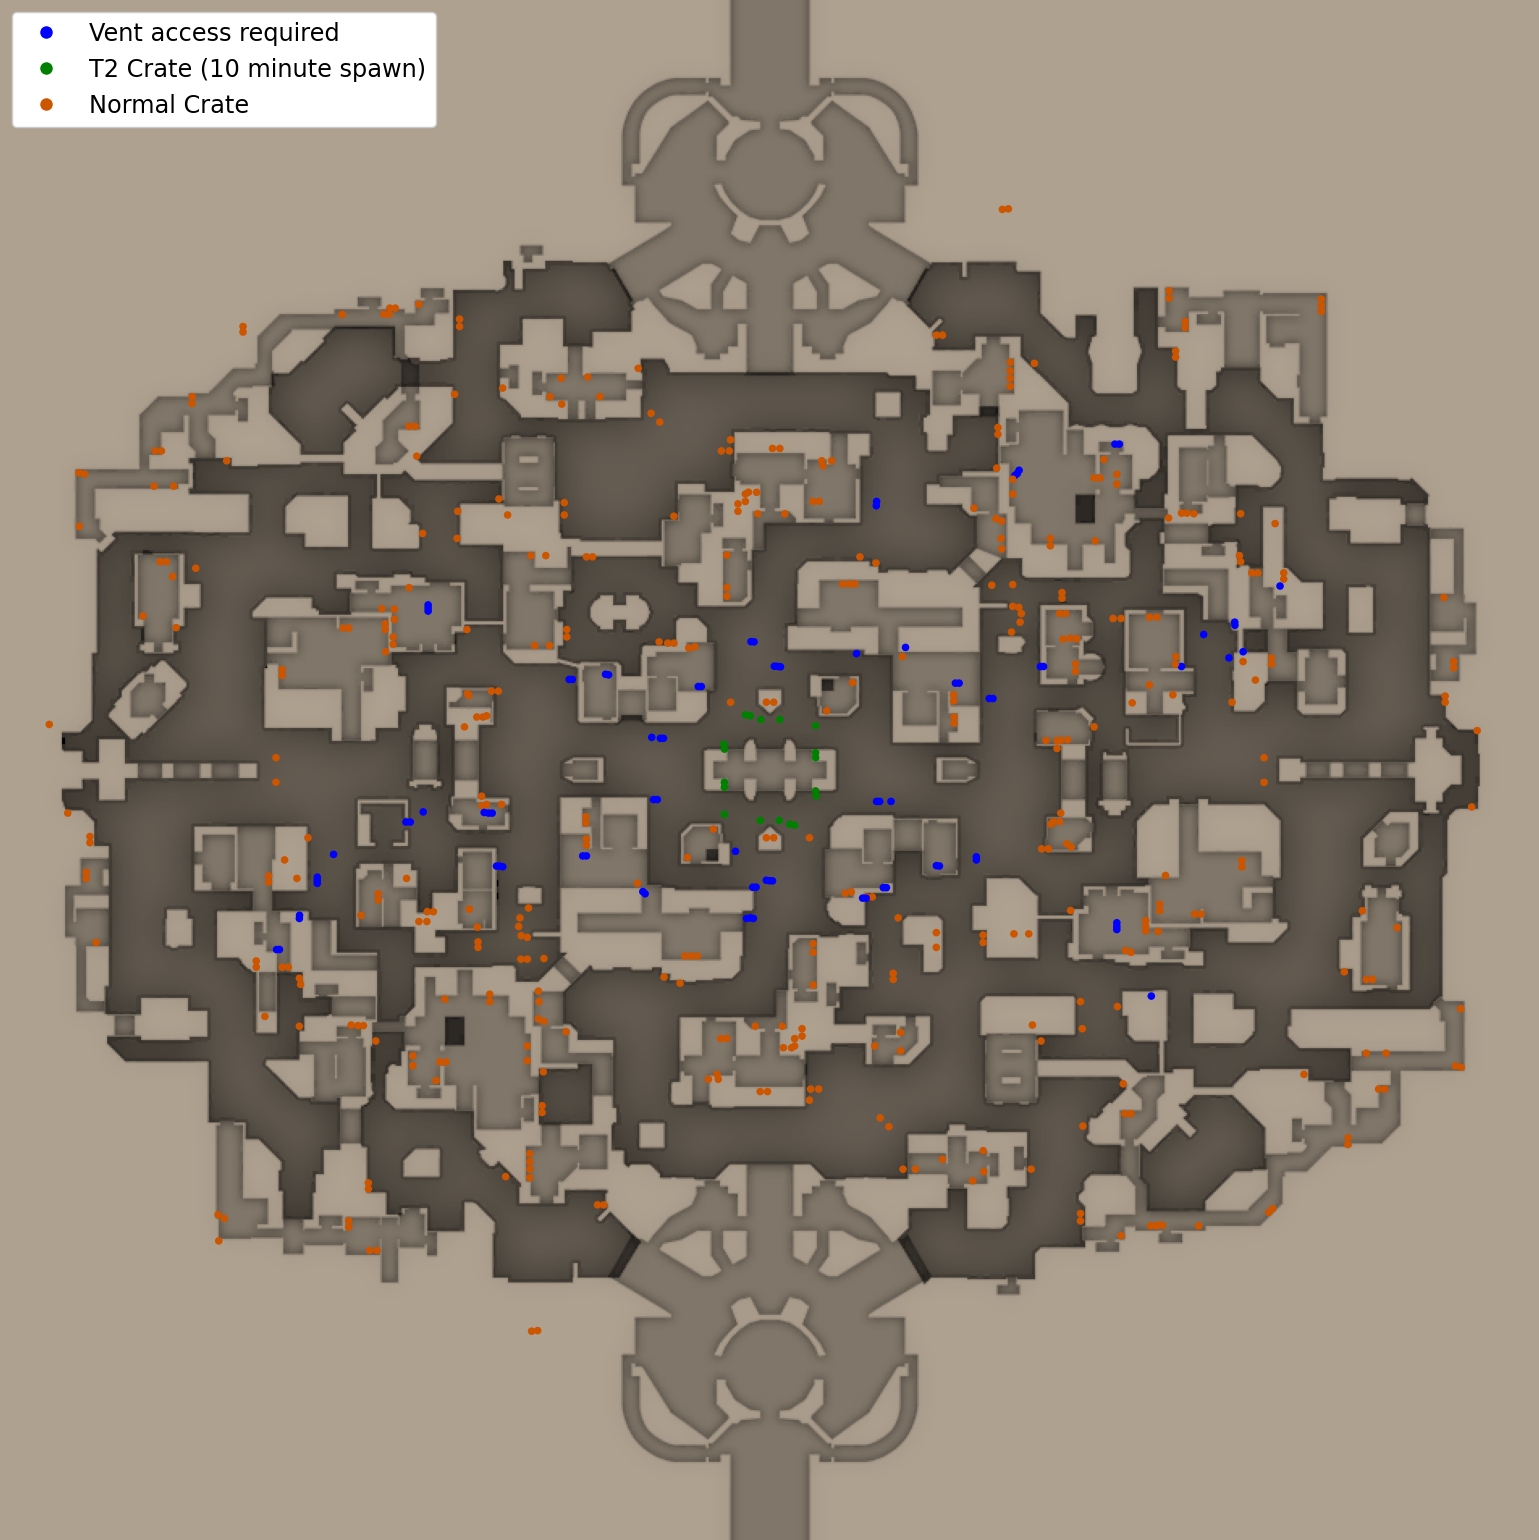
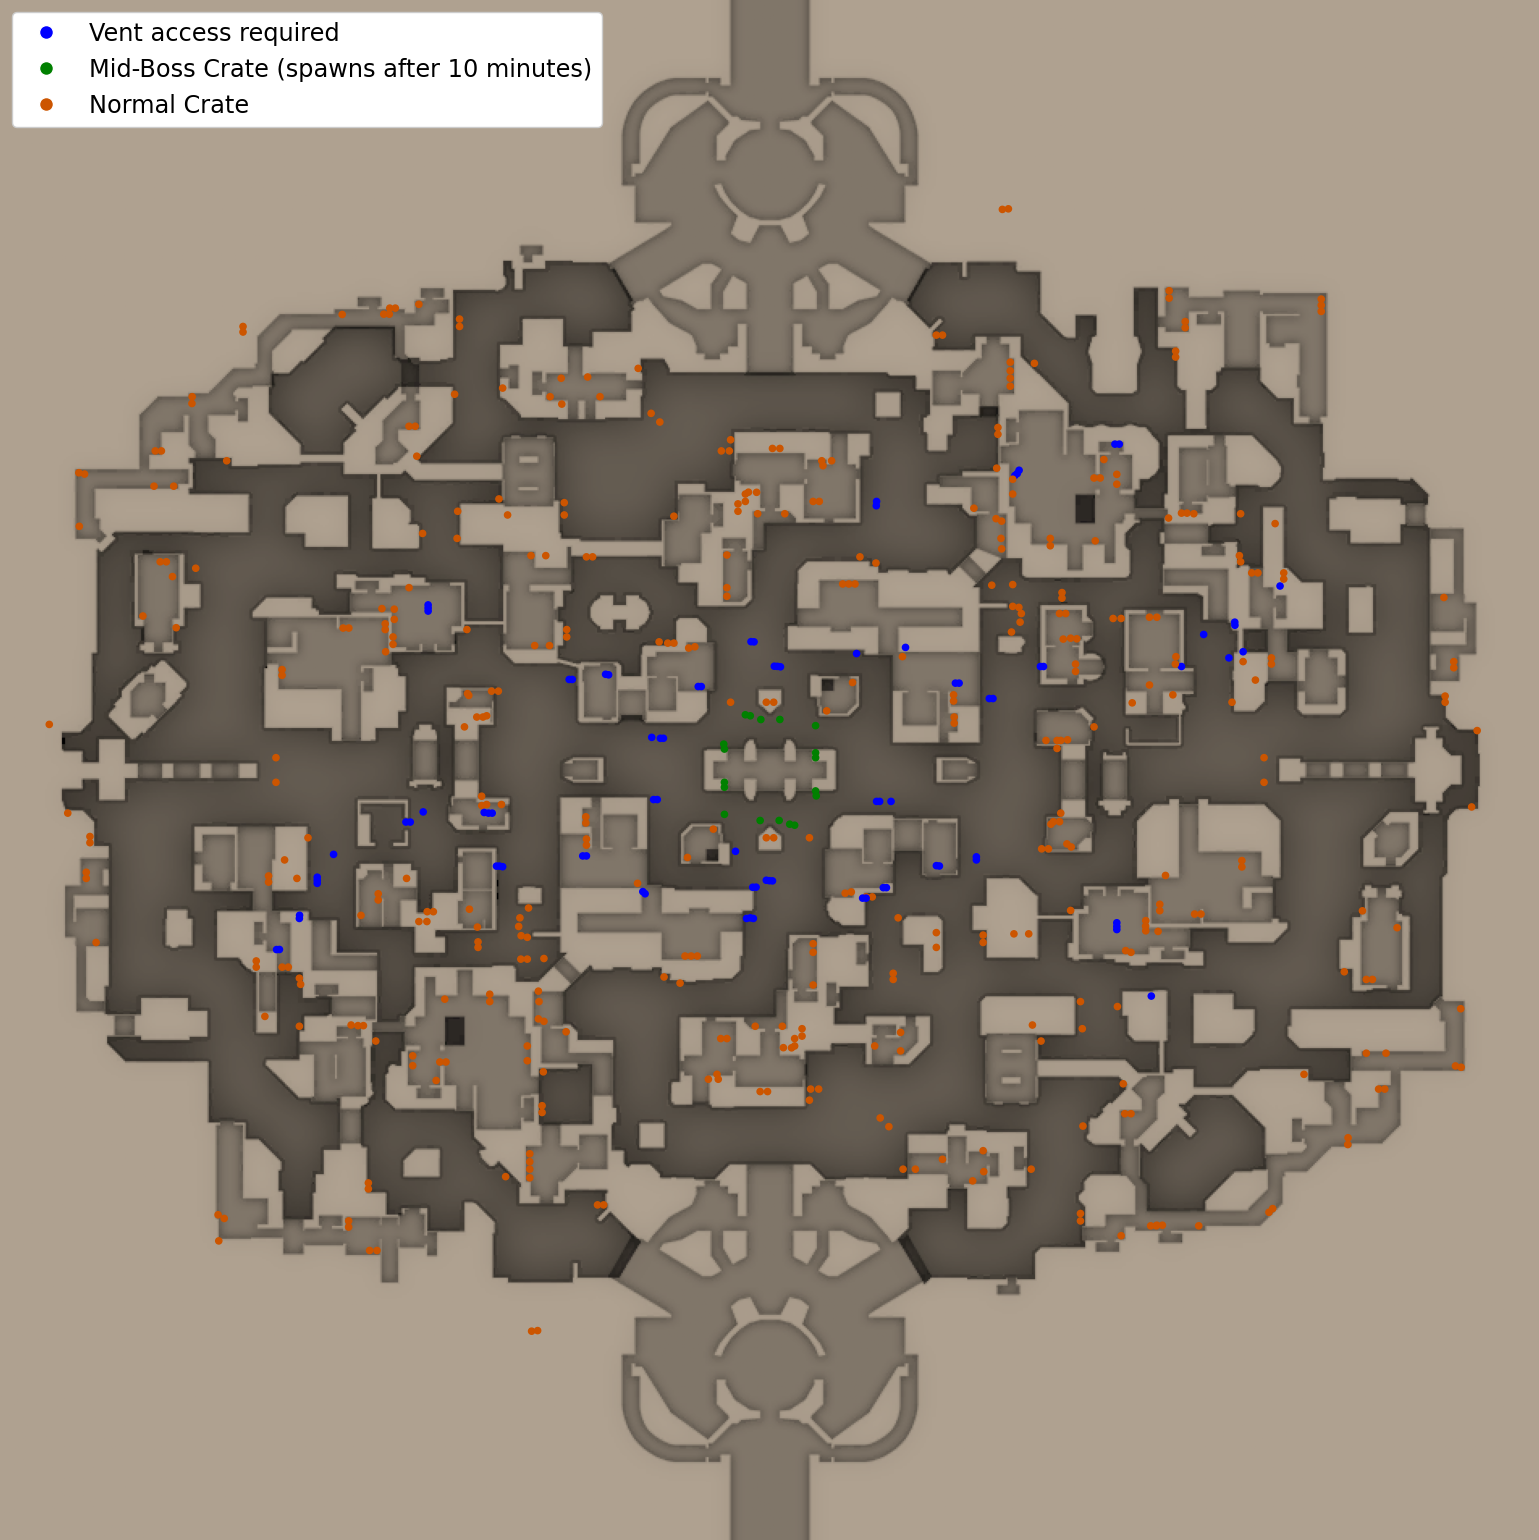
update config for action

Changed region(s): [[0.0624, 0.0, 0.4055, 0.0935]]

diff --git a/mapper/create_graph.py b/mapper/create_graph.py
@@ -24,23 +24,25 @@ def crates():
     with open("crates.json") as f:
         data = json.load(f)
 
-        x_coords = []
-        y_coords = []
-        colors = []
-        for entry in data:
-            x_coords.append(entry["origin"][0])
-            y_coords.append(entry["origin"][1])
-            if entry["scales"][0] <= 0.5:
-                colors.append("blue")
-            elif entry["initial_spawn_time_override"] > 0:
-                colors.append("green")
-            else:
-                colors.append("#cc5500")  # burnt orange
+    print("There are", len(data), "crates on the map")
+
+    x_coords = []
+    y_coords = []
+    colors = []
+    for entry in data:
+        x_coords.append(entry["origin"][0])
+        y_coords.append(entry["origin"][1])
+        if entry["scales"][0] <= 0.5:
+            colors.append("blue")
+        elif entry["initial_spawn_time_override"] > 0:
+            colors.append("green")
+        else:
+            colors.append("#cc5500")  # burnt orange
 
     legend_elements = [
         Line2D([0], [0], marker="o", color="w", label="Vent access required",
                markerfacecolor="blue", markersize=10),
-        Line2D([0], [0], marker="o", color="w", label="T2 Crate (10 minute spawn)",
+        Line2D([0], [0], marker="o", color="w", label="Mid-Boss Crate (spawns after 10 minutes)",
                markerfacecolor="green", markersize=10),
         Line2D([0], [0], marker="o", color="w", label="Normal Crate",
                markerfacecolor="#cc5500", markersize=10),
@@ -52,6 +54,8 @@ def crates():
 def golden_statues():
     with open("golden_statues.json") as f:
         data = json.load(f)
+
+    print("There are", len(data), "golden statues on the map")
 
     glitched_statues = [[-704, -2320.0002, 704], [704, 2320.0002, 704]]
 

diff --git a/README.md b/README.md
@@ -23,6 +23,7 @@ Not much of a helper right now; currently this is used to extract the locations 
 
 ### To extract entity locations:
 
+1. `dotnet publish`
 `./DeadlockEntityHelper Deadlock/game/citadel/maps/dl_midtown.vpk citadel_breakable_prop_wooden_crate`
 
 use `citadel_breakable_item_container` for golden statues
